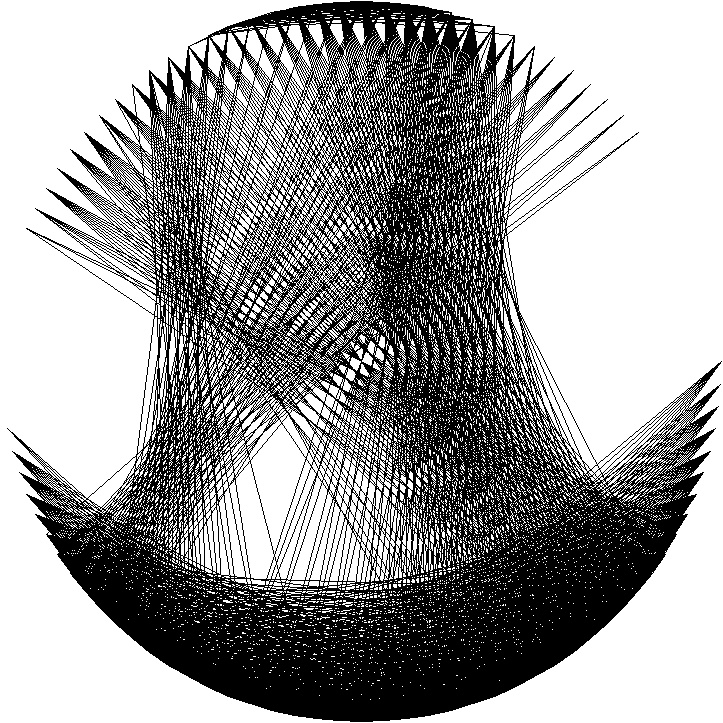
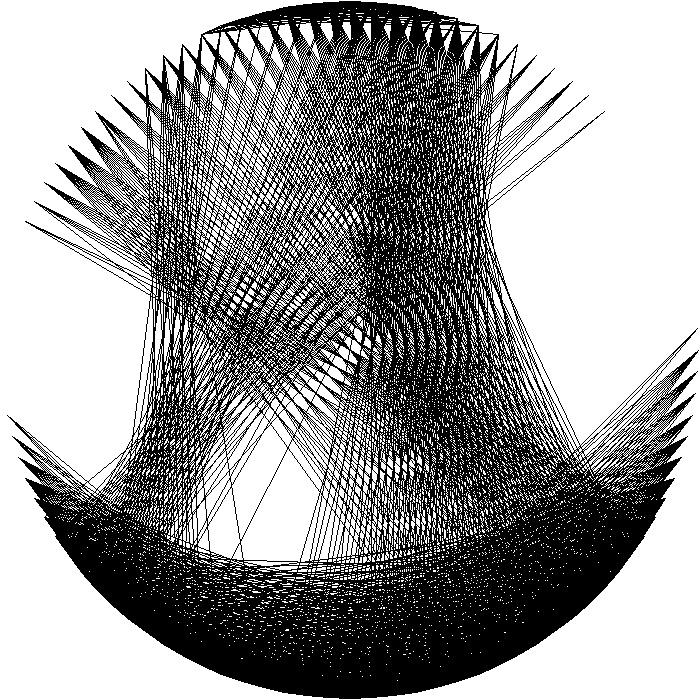
add resolution cap (for faster runtimes)

diff --git a/main.py b/main.py
@@ -10,6 +10,7 @@ OUTPUT_FILEPATH = "output.jpg"
 
 NUM_PINS = 100
 NUM_LINES = 2000 
+MAX_RESOLUTION = 700
 
 INVERT_IMAGE = False
 PREVIEW_IMAGE = False
@@ -27,11 +28,15 @@ img = cv.imread(IMPORT_FILEPATH, cv.IMREAD_GRAYSCALE)
 if INVERT_IMAGE:
     img = ~img
 
-# the smaller side of the image fed to the program will be the radius of the circle
-radius = min(img.shape)
+# the smaller side of the image fed to the program will be the size of the cropped image
+crop_size = min(img.shape)
 
-# crop the image to a square with side length equal to the radius.
-cropped_img = img[(int)(img.shape[0]/2 - radius/2):(int)(img.shape[0]/2 + radius/2), (int)(img.shape[1]/2 - radius/2):(int)(img.shape[1]/2 + radius/2)]
+# crop the image to a square aspect ratio
+cropped_img = img[(int)(img.shape[0]/2 - crop_size/2):(int)(img.shape[0]/2 + crop_size/2), (int)(img.shape[1]/2 - crop_size/2):(int)(img.shape[1]/2 + crop_size/2)]
+
+# Lower the resolution
+radius = min(crop_size, MAX_RESOLUTION)
+cropped_img = cv.resize(cropped_img, dsize=(radius, radius), interpolation=cv.INTER_CUBIC)
 
 # the amount of 'nails' to be used in the image
 pins = []
